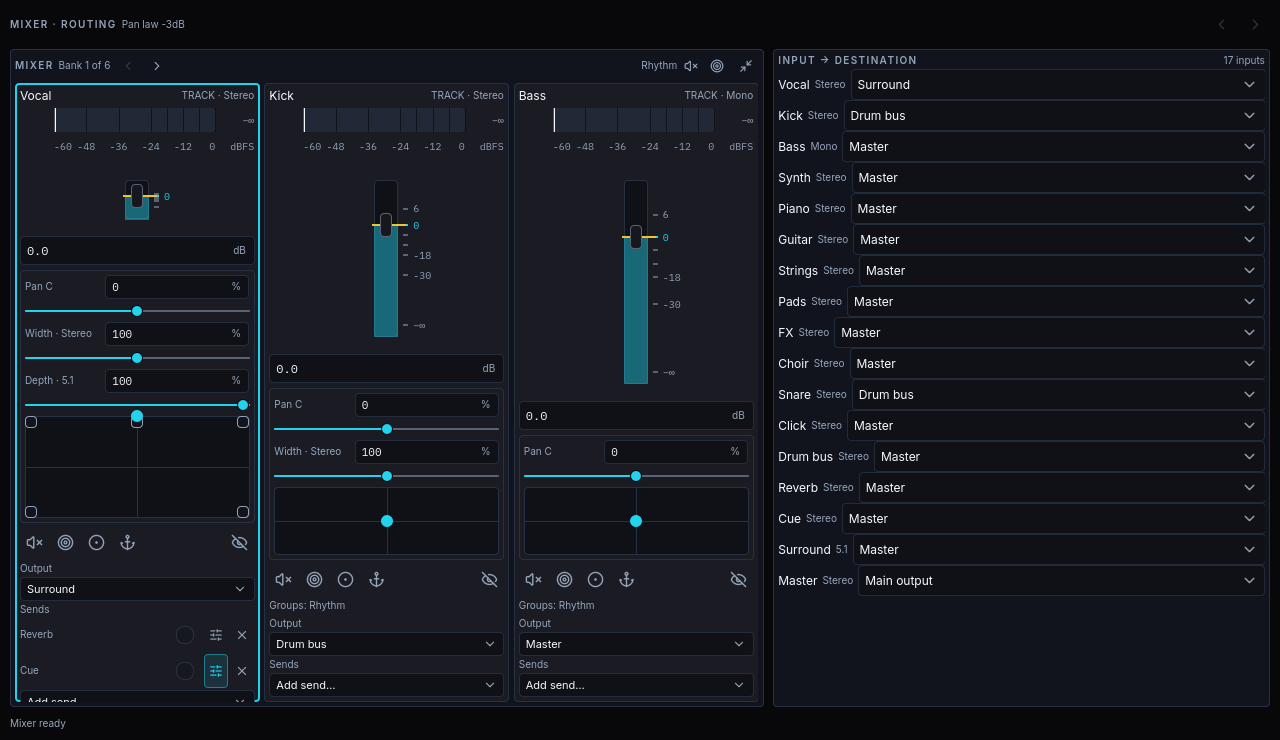
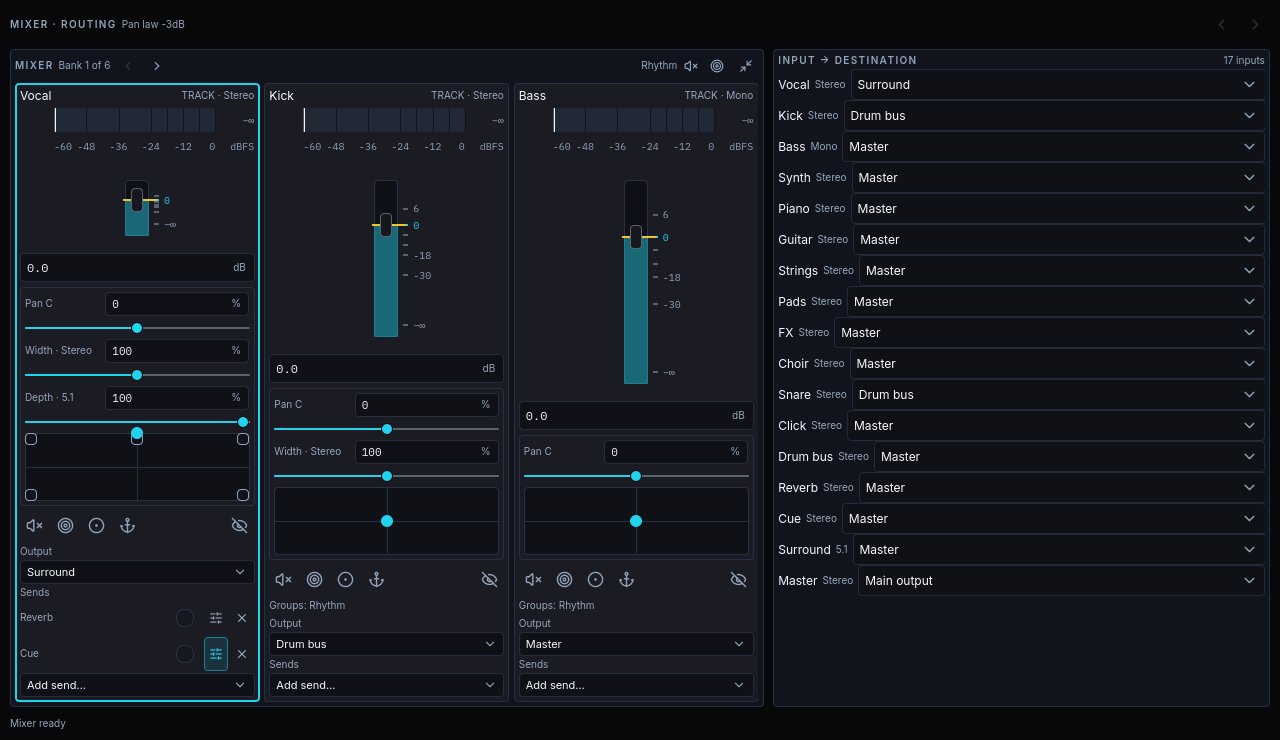
Record the WP-062 audit round after merging round/cf1; keep the spatial pad short
The first comfortable grab of the mixer fixture cut off the vocal strip's
"Add send" row. The spatial pad now keeps the normal pad height, so the
strip fits (comfortable 1280x740: Fader#channelGainFader 234x119,
Item#panPad 224x68). The branch was merged with round/cf1 b10cbf7, and the
catalog was regenerated. The mixer tests were re-run and pass, and the full
tst_qml runner passes 930/930.

diff --git a/docs/universal-toolkit/implementation/evidence/WP-062.md b/docs/universal-toolkit/implementation/evidence/WP-062.md
@@ -143,7 +143,8 @@ visual defect. All three are fixed, and the targets were rebuilt and run in
 An audit of `9da27f9` found nine gaps. Each one was re-checked against the
 plan and the code, and all nine were real. Every fix below has a test that
 fails without it. The branch was fast-forwarded to `round/cf1` (`1653a91`)
-first.
+first. After the fixes were committed, it was merged with `round/cf1` again
+at `b10cbf7`, with no conflicts.
 
 1. **RoutingMatrix selection by stable ID (req 3, AUD-16).** The rows were a
    JS array that was re-assigned on every mixer change, so the current row and
@@ -228,7 +229,16 @@ Run in `build/cf` (offscreen, software; `-j12 -l12`): `tst_audio_mixer`
 `tst_audio_mixer_surround` 6/6, `tst_audio_control_surface` 5/5,
 `tst_qml -input tests/qml/tst_mixer_routing.qml` 7/7,
 `tst_qml -input tests/qml/tst_mixer_views.qml` 9/9. Counts include
-init/cleanup.
+init/cleanup. All of these were re-run after the second merge. The full
+`tst_qml` runner passed 930/930, and `example_mixer_routing` passed too.
+
+The fixture now shows a vocal panned into a 5.1 bus: five speakers are drawn
+on its pad, and the depth row is visible. The first comfortable grab cut off
+the vocal strip's "Add send" row. The spatial pad now keeps the normal pad
+height, so the strip fits. In the 1280x740 comfortable dump, the vocal
+`Fader#channelGainFader` is 234x119 and `Item#panPad` is 224x68.
+[Compact](WP-062-mixer-routing-compact.png) and
+[comfortable](WP-062-mixer-routing-comfortable.png) grabs were inspected.
 
 Still open: nothing assigned to WP-062. Performance at scale (each gesture
 preview recompiles the graph on the GUI thread, D-113) and de-zippering
